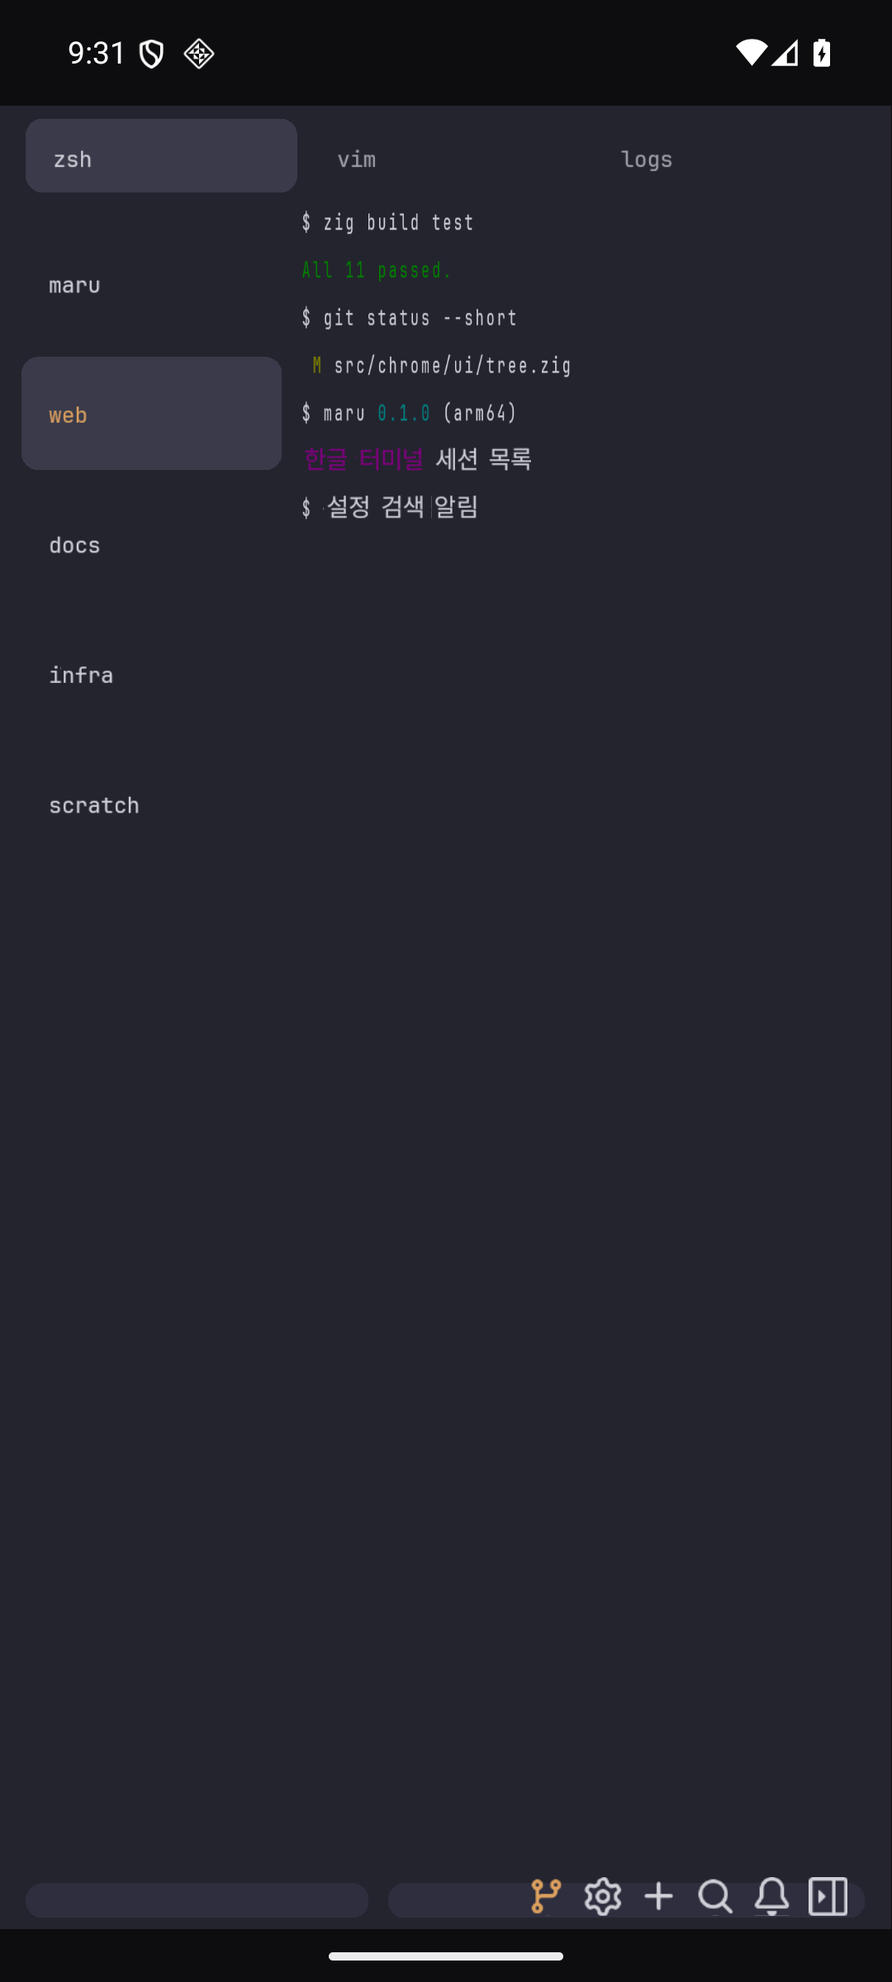
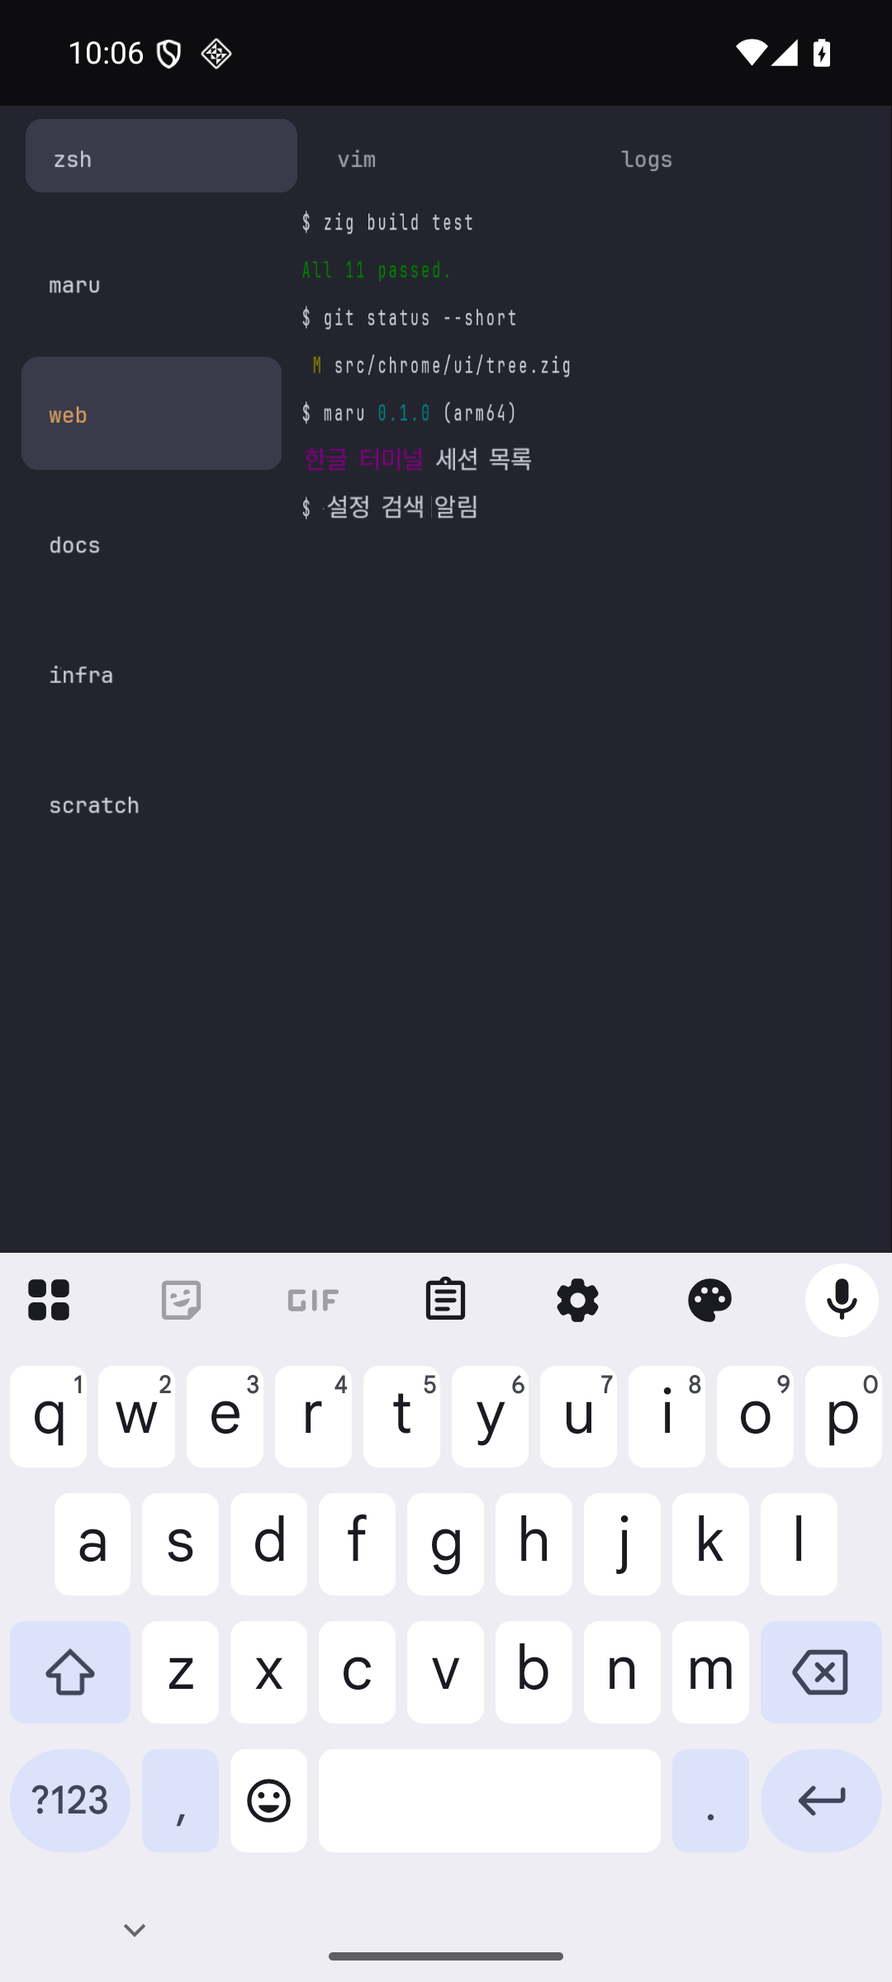
feat(mobile): Android IME 를 자체 Java shim 으로 받는다 (M2)
`NativeActivity` 만으로는 소프트 키보드가 ASCII 물리 키 이벤트를 줄 때만 입력이 되고 IME 를
못 받는다 — 한글 조합이 필수인 터미널에서는 쓸 수 없다.

**`GameActivity` 를 시도했다가 되돌렸다.** 이관과 빌드까지 통과했지만 실행에서
`ClassNotFoundException: androidx.appcompat.app.AppCompatActivity` 로 죽었다 — 1.2.2~4.4.2
**전 버전이** `AppCompatActivity` 를 상속해 AndroidX 20여 개와 리소스 컴파일이 필요하고,
Gradle 없이는 조립할 수 없다. 계획할 때 못 본 비용이라 결정을 다시 했다.

**유지보수가 판단 근거다.** 모바일은 CI 에 안 붙으므로 Gradle·AGP·JDK 삼각 버전은 정기적으로
돌지 않으면 조용히 썩는다. `javac` + `android.jar` + `d8` 은 의존이 0 이다. Kotlin 도 안 쓴다
— 구조가 같은데 `kotlin-stdlib` 가 APK 에 들어가고 `companion object` 의 JNI 심볼이
`@JvmStatic` 없이는 런타임에 죽는다.

**한글 조합 알고리즘은 우리 것이 아니다.** IME 가 계산해 문자열로 주고 shim 은
`setComposingText`(조합 중)·`commitText`(확정)를 JNI 로 넘기기만 한다. 조합 중 문자열은
**코어에 안 넣는다** — 확정 전에 PTY 로 흘리면 셸이 자모를 명령어 일부로 받는다. 화면
커서 자리에 흐리게 그리는 겉치레이고, 데스크톱 maru 의 IME 계약과 같은 모양이다.

검증된 것: 소프트 키보드가 뜬다(입력 대상 인정) · 키를 눌러 `commit="a"` 가 코어에 도달 ·
preedit 이 커서 자리에 흐리게 그려진다(주입 확인).

**미검증**: IME 조합 → preedit 왕복. 이 에뮬레이터에 한글 IME 가 없고 영어 Gboard 는 이
입력 타입에서 조합 없이 바로 확정한다. 한글 키보드가 있는 기기에서 손으로 봐야 한다.

실측으로 잡은 함정 넷을 문서에 남겼다.

  - `adb shell input text` 는 IME 를 **우회**한다(키 이벤트 주입).
  - `BaseInputConnection(view, false)` 면 조합이 아예 안 온다 — `true` 여야 한다.
  - `NativeActivity` 는 .so 를 클래스로더 밖에서 dlopen 한다 — Java 쪽
    `System.loadLibrary` 를 한 번 더 해야 JNI 이름 해석이 된다.
  - `d8` 8.2.2 가 익명 내부 클래스에서 내부 오류로 죽는다 — 이름 있는 중첩 클래스만 쓴다.

diff --git a/src/platform/android/MaruActivity.java b/src/platform/android/MaruActivity.java
@@ -1,0 +1,151 @@
+// Android IME shim. **이 파일이 저장소의 유일한 Java 다.**
+//
+// `NativeActivity` 만으로는 소프트 키보드가 ASCII 물리 키 이벤트를 줄 때만 입력이 되고
+// IME 를 못 받는다 — 한글 조합이 필수인 터미널에서는 쓸 수 없다. 구글의 `GameActivity`
+// 가 그 자리를 채우지만 `AppCompatActivity` 를 상속해 AndroidX 의존 트리와 Gradle 을
+// 끌고 온다(실측). 그래서 `InputConnection` 만 직접 받는다(docs/mobile-platform.md §1).
+//
+// **한글 조합 알고리즘은 여기 없다.** IME 가 `ㅎ`→`하`→`한` 을 계산해 완성된 문자열로
+// 주고, 이 파일은 그것을 JNI 로 넘기기만 한다.
+//
+// `android.*` 만 쓴다 — AndroidX 도 kotlin-stdlib 도 안 들어간다. 그래서 빌드가
+// `javac` + `d8` 로 끝난다.
+package dev.maru;
+
+import android.content.Context;
+import android.os.Bundle;
+import android.view.View;
+import android.view.ViewGroup;
+import android.view.inputmethod.BaseInputConnection;
+import android.view.inputmethod.EditorInfo;
+import android.view.inputmethod.InputConnection;
+import android.view.inputmethod.InputMethodManager;
+
+public class MaruActivity extends android.app.NativeActivity {
+
+    // **JVM 에게도 라이브러리를 알려야 한다.** `NativeActivity` 는 `android.app.lib_name` 을
+    // 보고 직접 `dlopen` 하지만 그건 클래스로더 밖이라, JNI 이름 해석이 안 돼
+    // `UnsatisfiedLinkError` 로 죽는다(실측). 같은 .so 를 여기서 한 번 더 연다 —
+    // dlopen 은 refcount 라 두 번 열려도 인스턴스는 하나다.
+    static {
+        System.loadLibrary("maruchrome");
+    }
+
+    /// 조합 중 문자열. **셸로 보내지 않는다** — 화면에만 흐리게 그린다. 확정되기 전에
+    /// PTY 로 흘리면 셸이 `ㅎ` 같은 자모를 명령어 일부로 받아버린다.
+    private static native void nativeComposing(String text);
+
+    /// 확정 문자열. 이때만 코어(→PTY)로 간다.
+    private static native void nativeCommit(String text);
+
+    /// IME 가 문자로 주지 않는 키(백스페이스 등). 코어가 바이트로 받는다.
+    private static native void nativeKey(int keyCode);
+
+    /// IME 가 입력 대상으로 인정할 View. `NativeActivity` 의 SurfaceView 는 텍스트 편집기가
+    /// 아니라서 키보드가 이 View 를 봐야 한다. 그리지 않으므로 화면에는 영향이 없다.
+    private static final class InputView extends View {
+        InputView(Context ctx) {
+            super(ctx);
+            setFocusable(true);
+            setFocusableInTouchMode(true);
+        }
+
+        @Override
+        public boolean onCheckIsTextEditor() {
+            return true;   // 이 한 줄이 없으면 IME 가 이 View 를 무시한다
+        }
+
+        @Override
+        public InputConnection onCreateInputConnection(EditorInfo out) {
+            // 터미널이라 자동완성·자동대문자를 끈다. 그것들이 켜져 있으면 IME 가
+            // 앞 문맥을 조회해 멋대로 고쳐 넣는다.
+            out.inputType = EditorInfo.TYPE_CLASS_TEXT | EditorInfo.TYPE_TEXT_FLAG_NO_SUGGESTIONS;
+            out.imeOptions = EditorInfo.IME_FLAG_NO_EXTRACT_UI
+                    | EditorInfo.IME_FLAG_NO_FULLSCREEN
+                    | EditorInfo.IME_ACTION_NONE;
+            return new TerminalInputConnection(this);
+        }
+    }
+
+    /// IME 가 부르는 콜백을 코어로 넘긴다.
+    ///
+    /// **`fullEditor=true` 여야 조합이 온다.** false 로 두면 IME 가 "편집기가 아니다" 로 보고
+    /// `setComposingText` 없이 바로 `commitText` 를 부른다(실측). 그러면 한글이 조립되는
+    /// 과정이 화면에 안 나온다. true 면 프레임워크가 Editable 버퍼를 두지만 우리는 콜백만
+    /// 가로채 쓰므로 그 버퍼는 안 읽는다.
+    private static final class TerminalInputConnection extends BaseInputConnection {
+        TerminalInputConnection(View target) {
+            super(target, true);
+        }
+
+        @Override
+        public boolean setComposingText(CharSequence text, int newCursorPosition) {
+            nativeComposing(text == null ? "" : text.toString());
+            return true;
+        }
+
+        @Override
+        public boolean finishComposingText() {
+            nativeComposing("");   // 조합이 끝났다 — 겉치레를 지운다
+            return true;
+        }
+
+        @Override
+        public boolean commitText(CharSequence text, int newCursorPosition) {
+            nativeComposing("");
+            nativeCommit(text == null ? "" : text.toString());
+            return true;
+        }
+
+        @Override
+        public boolean deleteSurroundingText(int beforeLength, int afterLength) {
+            // 조합이 없는 상태의 백스페이스가 이리로 온다. 터미널은 화면 버퍼를 편집하지
+            // 않으므로 삭제를 흉내 내지 않고 **키 자체를 코어로** 넘긴다.
+            for (int i = 0; i < beforeLength; i++) nativeKey(android.view.KeyEvent.KEYCODE_DEL);
+            return true;
+        }
+
+        @Override
+        public boolean sendKeyEvent(android.view.KeyEvent event) {
+            if (event.getAction() == android.view.KeyEvent.ACTION_DOWN) nativeKey(event.getKeyCode());
+            return true;
+        }
+    }
+
+    private InputView input;
+
+    @Override
+    protected void onCreate(Bundle state) {
+        super.onCreate(state);
+        input = new InputView(this);
+        // NativeActivity 가 만든 content view 위에 얹는다. 0x0 이면 포커스를 못 받는 기기가
+        // 있어 전체 크기로 두고, 그리지 않아 화면에는 안 보인다.
+        addContentView(input, new ViewGroup.LayoutParams(
+                ViewGroup.LayoutParams.MATCH_PARENT, ViewGroup.LayoutParams.MATCH_PARENT));
+        input.requestFocus();
+    }
+
+    /// **익명 클래스를 안 쓴다.** `d8` 8.2.2 가 익명 내부 클래스(`MaruActivity$1`)에서
+    /// 내부 오류로 죽는다(실측). 이름 있는 중첩 클래스는 정상이라 그것만 쓴다.
+    private static final class ShowKeyboard implements Runnable {
+        private final MaruActivity activity;
+
+        ShowKeyboard(MaruActivity a) {
+            this.activity = a;
+        }
+
+        @Override
+        public void run() {
+            activity.input.requestFocus();
+            InputMethodManager imm = (InputMethodManager)
+                    activity.getSystemService(Context.INPUT_METHOD_SERVICE);
+            if (imm != null) imm.showSoftInput(activity.input, InputMethodManager.SHOW_IMPLICIT);
+        }
+    }
+
+    /// 네이티브에서 부른다 — 터미널은 켜지면 바로 입력을 받는다.
+    @SuppressWarnings("unused")
+    public void showKeyboard() {
+        runOnUiThread(new ShowKeyboard(this));
+    }
+}

diff --git a/src/platform/android/android_app_host.c b/src/platform/android/android_app_host.c
@@ -14,6 +14,7 @@
 #include <android_native_app_glue.h>
 #include <android/log.h>
 #include <android/bitmap.h>
+#include <jni.h>
 #include <android/choreographer.h>
 #include <vulkan/vulkan.h>
 #include <stdio.h>
@@ -678,26 +679,57 @@ static void queryInsets(struct android_app *app, int *top, int *bottom) {
     (*vm)->DetachCurrentThread(vm);
 }
 
-// **입력**: NativeActivity 가 받은 키를 바이트로 바꿔 코어에 먹인다.
+// **입력**: 문자는 IME 가 만든다. `MaruActivity.java` 가 `InputConnection` 으로 받아
+// 여기로 넘긴다 — keycode→ASCII 표를 손으로 짜면 한글을 못 만든다(그게 shim 을 둔 이유다).
 //
-// NDK 는 keycode 만 주고 문자 매핑은 Java `KeyCharacterMap` 에 있다. PoC 는 그 왕복을
-// 하지 않고 ASCII 구간만 표로 옮긴다 — 확인하려는 것은 "OS 키 이벤트가 코어까지 닿는가"
-// 이지 자판 배열 전체가 아니다. 실제 제품은 KeyCharacterMap(또는 IME)을 거쳐야 한다.
-static char keycodeToAscii(int32_t kc, int32_t meta) {
-    if (kc >= AKEYCODE_A && kc <= AKEYCODE_Z) {
-        char base = (char)('a' + (kc - AKEYCODE_A));
-        int shift = (meta & (AMETA_SHIFT_ON | AMETA_SHIFT_LEFT_ON | AMETA_SHIFT_RIGHT_ON)) != 0;
-        return shift ? (char)(base - 32) : base;
+// 조합 중 문자열은 **셸로 보내지 않는다**. 화면에만 흐리게 그릴 겉치레라서, 코어의 입력
+// 경로가 아니라 별도 상태로 둔다(docs/mobile-platform.md §1).
+JNIEXPORT void JNICALL
+Java_dev_maru_MaruActivity_nativeComposing(JNIEnv *env, jclass cls, jstring text) {
+    (void)cls;
+    const char *s = text ? (*env)->GetStringUTFChars(env, text, NULL) : NULL;
+    unsigned int n = s ? (unsigned int)strlen(s) : 0;
+    maru_mobile_set_preedit(s ? s : "", n);
+    if (s) (*env)->ReleaseStringUTFChars(env, text, s);
+}
+
+JNIEXPORT void JNICALL
+Java_dev_maru_MaruActivity_nativeCommit(JNIEnv *env, jclass cls, jstring text) {
+    (void)cls;
+    if (!text) return;
+    const char *s = (*env)->GetStringUTFChars(env, text, NULL);
+    if (s) {
+        unsigned int total = maru_mobile_input(s, strlen(s));
+        LOGI("MARU_INPUT commit=\"%s\" total=%u", s, total);
+        (*env)->ReleaseStringUTFChars(env, text, s);
     }
-    if (kc >= AKEYCODE_0 && kc <= AKEYCODE_9) return (char)('0' + (kc - AKEYCODE_0));
-    switch (kc) {
-        case AKEYCODE_SPACE: return ' ';
-        case AKEYCODE_ENTER: return '\r';
-        case AKEYCODE_PERIOD: return '.';
-        case AKEYCODE_MINUS: return '-';
-        case AKEYCODE_SLASH: return '/';
-        default: return 0;
+}
+
+// IME 가 문자로 주지 않는 키만 여기로 온다(백스페이스·엔터 등).
+JNIEXPORT void JNICALL
+Java_dev_maru_MaruActivity_nativeKey(JNIEnv *env, jclass cls, jint key_code) {
+    (void)env; (void)cls;
+    char c = 0;
+    switch (key_code) {
+        case AKEYCODE_ENTER: c = '\r'; break;
+        case AKEYCODE_DEL:   c = 0x7F; break;
+        case AKEYCODE_TAB:   c = '\t'; break;
+        case AKEYCODE_ESCAPE: c = 0x1B; break;
+        default: return;
     }
+    maru_mobile_input(&c, 1);
+}
+
+// 창이 서면 키보드를 올린다 — 터미널은 켜지면 바로 입력을 받는다.
+static void showKeyboard(struct android_app *app) {
+    JavaVM *vm = app->activity->vm;
+    JNIEnv *env = NULL;
+    if ((*vm)->AttachCurrentThread(vm, &env, NULL) != 0) return;
+    jclass cls = (*env)->GetObjectClass(env, app->activity->clazz);
+    jmethodID m = (*env)->GetMethodID(env, cls, "showKeyboard", "()V");
+    if (m) (*env)->CallVoidMethod(env, app->activity->clazz, m);
+    if ((*env)->ExceptionCheck(env)) (*env)->ExceptionClear(env);
+    (*vm)->DetachCurrentThread(vm);
 }
 
 static int32_t onInputEvent(struct android_app *app, AInputEvent *ev) {
@@ -716,14 +748,8 @@ static int32_t onInputEvent(struct android_app *app, AInputEvent *ev) {
              px, py, lx, ly, cell >> 16, cell & 0xFFFF);
         return 1;
     }
-    if (AInputEvent_getType(ev) != AINPUT_EVENT_TYPE_KEY) return 0;
-    if (AKeyEvent_getAction(ev) != AKEY_EVENT_ACTION_DOWN) return 0;
-    char c = keycodeToAscii(AKeyEvent_getKeyCode(ev), AKeyEvent_getMetaState(ev));
-    if (!c) return 0;
-    unsigned int total = maru_mobile_input(&c, 1);
-    LOGI("MARU_INPUT keycode=%d byte=0x%02x total=%u",
-         AKeyEvent_getKeyCode(ev), (unsigned char)c, total);
-    return 1;
+    // 키는 여기서 안 본다 — 소프트 키보드 문자는 `MaruActivity` 의 InputConnection 이 준다.
+    return 0;
 }
 
 // **생명주기**: 홈으로 나가면 창이 죽는다(APP_CMD_TERM_WINDOW). 그때 스왑체인을 그대로
@@ -912,6 +938,7 @@ static void onAppCmd(struct android_app *app, int32_t cmd) {
         // 기기 래스터가 서면 push 한 호스트 아틀라스는 아예 안 읽는다.
         if (!g_glyph_px && !rasterizeAtlasOnDevice(app, &g_glyph_px, &g_gw, &g_gh)) loadAtlas();
         if (initVulkan(app->window)) LOGI("MARU_LIFECYCLE vulkan_ready frames_reset");
+        showKeyboard(app);
     }
 }
 

diff --git a/src/platform/mobile/mobile_host_abi.h b/src/platform/mobile/mobile_host_abi.h
@@ -49,8 +49,12 @@ const unsigned char *maru_mobile_icon_atlas(void);
 unsigned int maru_mobile_icon_slot_px(void);
 unsigned int maru_mobile_icon_count(void);
 
-/// 키 입력. 코어는 이 바이트를 PTY 에서 온 것과 구분하지 않는다.
+/// 키 입력(확정된 문자). 코어는 이 바이트를 PTY 에서 온 것과 구분하지 않는다.
 unsigned int maru_mobile_input(const char *bytes, unsigned long len);
+
+/// 조합 중 문자열(IME preedit). **코어에 넣지 않는다** — 확정 전에 PTY 로 흘리면 셸이
+/// 자모를 명령어 일부로 받는다. 화면 커서 자리에 흐리게 그릴 겉치레다.
+void maru_mobile_set_preedit(const char *bytes, unsigned long len);
 
 /// 터치 지점(논리 px) → 셀. 상위 16비트=열, 하위 16비트=행. 본문 밖이면 0xFFFFFFFF.
 unsigned int maru_mobile_hit_cell(float x, float y);

diff --git a/docs/plans/mobile-platform.md b/docs/plans/mobile-platform.md
@@ -18,7 +18,7 @@ PoC 로 "Zig 코어 + 네이티브 GPU 가 iOS/Android 에서 서는가" 를 실
 | M0 | 계약 문서 + 폴더 구조. PoC 코드를 `src/platform/{mobile,ios,android}` 로 옮긴다 | 완료 |
 | M1 | **draw-list 배칭** — quad 당 draw call 을 인스턴스 드로우 한 번으로 | 완료 |
 | M1.5 | **`build.zig` 타깃** — 제품 빌드를 셸 스크립트에서 회수한다 | 완료 |
-| M2 | **Android `GameActivity` 이관** — `GameTextInput` 으로 IME 를 받는다 | 미착수 |
+| M2 | **Android IME** — 자체 Java shim 이 `InputConnection` 을 받는다 | 완료(일부 미검증) |
 | M3 | 원격 세션 연결 — `session_host` 클라이언트를 모바일에 붙인다 | 미착수 |
 | M4 | 스크롤·선택·복사 + 보조 키바 | 미착수 |
 | M5 | 회전·태블릿 레이아웃 | 미착수 |
@@ -68,10 +68,41 @@ zig build mobile-lib-ios-sim | mobile-lib-ios | mobile-lib-android
 측정 **결과**(표·스크린샷)는 전부 남는다. 여섯 기능 판정기(`features-*`)는 다른 모드가
 대체하지 않는 별도 측정이라 남긴다.
 
-## M2 — GameActivity
+## M2 — Android IME (자체 Java shim)
 
-`androidx.games:games-activity` 의 prefab C 소스와 `classes.jar` 를 쓴다. Java 코드가 생기므로
-`hasCode="false"` 를 버리고 `d8` 로 dex 를 만든다.
+**`GameActivity` 를 시도했다가 되돌렸다.** 코드 이관과 빌드까지 통과했지만 실행에서
+`ClassNotFoundException: androidx.appcompat.app.AppCompatActivity` 로 죽었다 — `GameActivity`
+가 전 버전에서 `AppCompatActivity` 를 상속해 AndroidX 20여 개와 리소스 컴파일이 필요하고,
+그건 Gradle 없이 손으로 조립할 수 없다. 계획할 때 못 본 비용이라 결정을 다시 했다
+(근거는 [계약 §1](../mobile-platform.md#1-확정-결정)).
 
-판정: `adb shell input text` 로 넣은 한글이 **조합된 채로** 앱에 도달한다(`GameTextInput` 의
-`stateChanged` 콜백). `NativeActivity` 의 keycode 표를 지운다.
+`NativeActivity` 를 유지하고 IME 만 자체 shim 으로 받는다.
+
+```text
+MaruActivity(NativeActivity)   투명 입력 View 를 얹고 소프트 키보드를 띄운다
+  └ MaruInputView              onCheckIsTextEditor()=true → IME 가 입력 대상으로 인정
+      └ MaruInputConn          setComposingText/commitText 를 JNI 로 넘긴다
+```
+
+### 검증된 것과 안 된 것
+
+| | 상태 |
+|---|---|
+| shim 이 입력 대상으로 인정됨 | **OK** — 소프트 키보드가 뜬다 |
+| `commitText` → 코어 | **OK** — 키를 눌러 `commit="a"` 도달 |
+| preedit 렌더(커서 자리에 흐리게) | **OK** — 주입해서 확인 |
+| IME 조합 → preedit 왕복 | **미검증**(아래) |
+
+**조합을 실제로 흘려 보지 못했다.** 이 에뮬레이터에는 Gboard(LatinIME)뿐이고 한글 IME 가
+없다. 영어 Gboard 는 이 입력 타입에서 `setComposingText` 없이 바로 `commitText` 를 부른다.
+그래서 "IME 가 만든 조합 문자열이 preedit 으로 그려진다" 는 왕복은 **한글 키보드가 있는
+기기에서 손으로 확인해야 한다**.
+
+실측으로 잡은 것들:
+
+  - `adb shell input text` 는 **IME 를 우회**한다(키 이벤트 주입). IME 경로 검증에 못 쓴다.
+  - `BaseInputConnection(view, false)` 면 IME 가 "편집기가 아니다" 로 보고 조합 없이 바로
+    확정한다 — `true` 여야 한다.
+  - `NativeActivity` 는 `android.app.lib_name` 의 .so 를 **클래스로더 밖에서 dlopen** 한다.
+    Java 쪽 `System.loadLibrary` 를 한 번 더 해야 JNI 이름 해석이 된다.
+  - `d8` 8.2.2 가 **익명 내부 클래스에서 내부 오류로 죽는다**. 이름 있는 중첩 클래스만 쓴다.

diff --git a/docs/mobile-platform.md b/docs/mobile-platform.md
@@ -15,9 +15,24 @@
   전용**이고, 로컬 PTY 는 Android 에만 존재한다. 이것이 모바일 지원의 성격을 정한다 —
   iOS 앱은 PC 의 원격 뷰어이고 [컨트롤 플레인](control-plane.md)이 선택이 아니라 전제다.
   ([베이스](#5-베이스): 출시된 iOS 터미널이 전부 SSH/Mosh 클라이언트인 것이 같은 결론이다.)
-- **Android host 는 `GameActivity` 다.** `NativeActivity` 는 소프트 키보드가 ASCII 물리 키
-  이벤트를 줄 때만 입력이 되고 **IME 를 못 받는다** — 한글 조합이 필수인 터미널에서는 쓸 수
-  없다. `GameActivity` 의 `GameTextInput` 이 그 자리를 채운다.
+- **Android IME 는 자체 Java shim 이 받는다**(`NativeActivity` 유지). `NativeActivity` 만으로는
+  소프트 키보드가 ASCII 물리 키 이벤트를 줄 때만 입력이 되고 **IME 를 못 받는다** — 한글
+  조합이 필수인 터미널에서는 쓸 수 없다. 구글의 `GameActivity`/`GameTextInput` 이 그 자리를
+  채우지만 **`AppCompatActivity` 를 상속해 AndroidX 의존 트리와 Gradle 을 끌고 온다**(실측:
+  1.2.2~4.4.2 전 버전). 그래서 `InputConnection` 을 직접 받는 ~120줄 Java 로 간다.
+
+  **한글 조합 알고리즘은 우리 것이 아니다.** IME 가 계산해 문자열로 주고, shim 은
+  `setComposingText`(조합 중)·`commitText`(확정)를 JNI 로 넘기기만 한다. 같은 조건의
+  터미널(Termux)이 `GameActivity` 없이 이 방식으로 선다.
+
+  **판단 근거는 유지보수다.** 모바일은 CI 에 안 붙으므로(§6) Gradle·AGP·JDK 삼각 버전은
+  **정기적으로 돌지 않으면 조용히 썩는다**. `javac` + `android.jar` + `d8` 은 의존이 없고
+  안드로이드 SDK 의 하위 호환이 강하다. Gradle 은 Play 배포·App Bundle 처럼 실제로 필요해질
+  때 도입한다 — 지금 넣으면 쓰지 않으면서 썩는다.
+
+  **Kotlin 은 쓰지 않는다.** 구조가 같고(같은 콜백 두 개), 대가로 `kotlin-stdlib` 가 APK 에
+  들어가며 `companion object` 의 JNI 심볼이 `@JvmStatic` 없이는 런타임에 죽는다. 이 120줄에는
+  Kotlin 의 이점이 나올 자리가 없다.
 - **draw-list 는 배칭해 그린다.** quad 하나당 draw call 하나는 모바일 타일 기반 GPU 에서
   특히 비싸다. 데스크톱이 이미 vertex buffer 로 배칭하므로(`maru_metal_renderer.m`) 같은
   모양을 쓴다 — 새 경로를 만들지 않는다.
@@ -37,7 +52,8 @@ src/platform/
     ios_metal_renderer.m   Metal 백엔드(배칭)
     ios_text.m             CoreText 래스터 + 아틀라스 성장
   android/
-    android_app_host.c     GameActivity host: 창·생명주기·입력·IME
+    android_app_host.c     NativeActivity host: 창·생명주기·터치
+    MaruActivity.java      IME shim: 조합 중/확정 문자열을 JNI 로 넘긴다(~120줄)
     android_vulkan_renderer.c  Vulkan 백엔드(배칭)
     android_text.c         JNI Paint 래스터 + 아틀라스 성장
     AndroidManifest.xml
